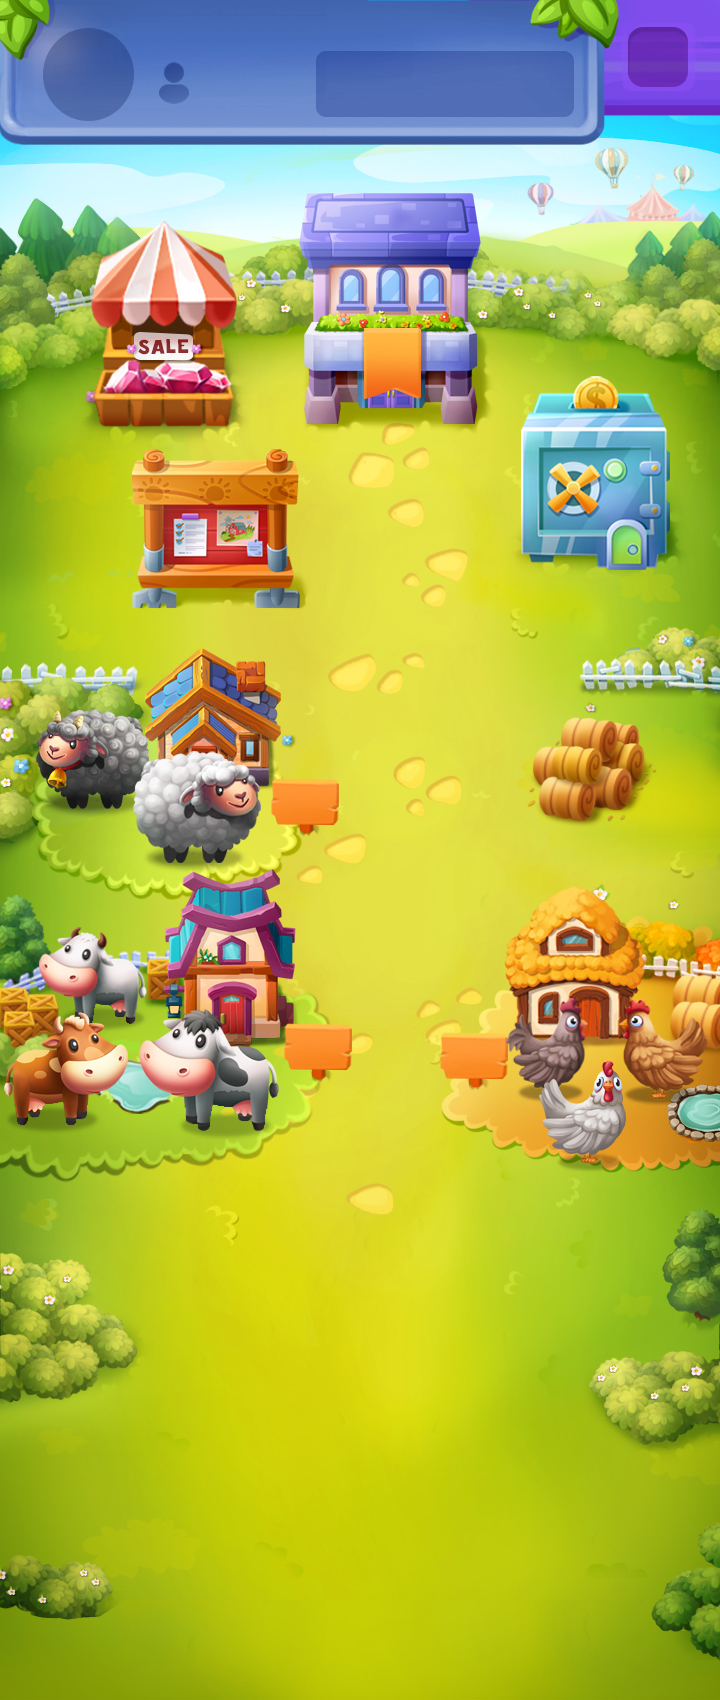
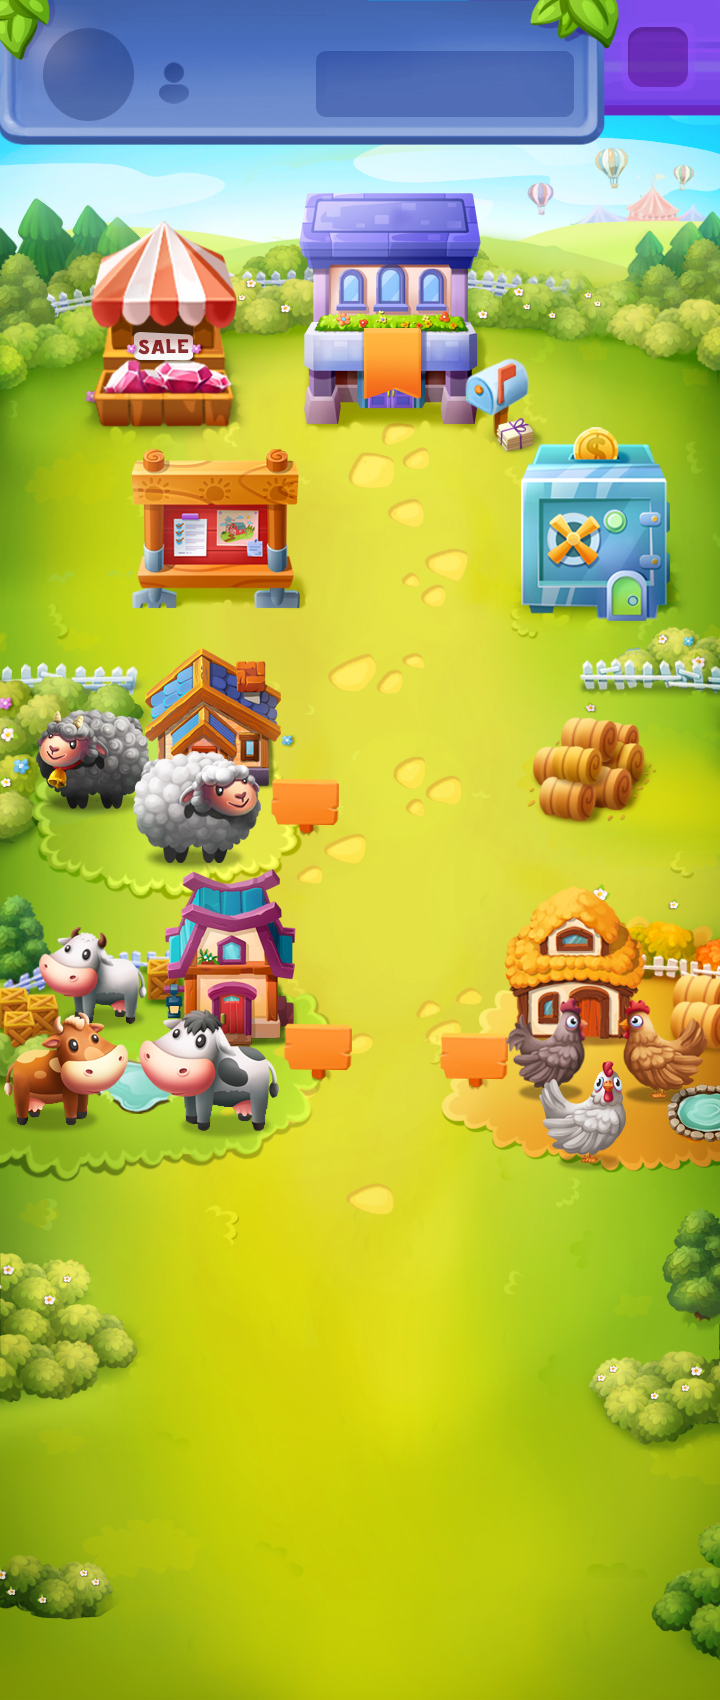
add clan chat messages notification

Changed region(s): [[0.6417, 0.1871, 0.9472, 0.3741]]

diff --git a/src/scripts/components/modal/chat/ChatBars.ts b/src/scripts/components/modal/chat/ChatBars.ts
@@ -27,6 +27,7 @@ export default class ChatBars {
   private name: Phaser.GameObjects.Text;
   private arrow: Phaser.GameObjects.Sprite;
   private personalTabNotificator: Notificator;
+  private clanTabNotificator: Notificator;
 
   constructor(scene: Modal) {
     this.scene = scene;
@@ -147,15 +148,20 @@ export default class ChatBars {
 
       switch (type) {
         case 1:
-          // this.tabChat = this.scene.add.nineslice(bgGeom.left + 10, bgGeom.top + 25, maxWidth / 3, activeTabHeight, 'chat-tab-active', slice) //!
           this.tabChat = this.scene.add.roundedField(bgGeom.left + 10 + maxWidth / 6, bgGeom.top + 25, maxWidth / 3, activeTabHeight, 'chat-tab-active').setDepth(2).setOriginY(1);
           this.tabChatText = this.scene.add.text(this.tabChat.getCenter().x, this.tabChat.getCenter().y, this.scene.state.lang.generalChat, tabActiveTextStyle).setDepth(2).setOrigin(0.5);
 
-          // this.tabClan = this.scene.add.nineslice(this.tabChat.getRightCenter().x - 3 , bgGeom.top + 25, maxWidth / 3, tabHeight, 'chat-tab', slice); //!
           this.tabClan = this.scene.add.roundedField(this.tabChat.getRightCenter().x - 3 + maxWidth / 6, bgGeom.top + 25, maxWidth / 3, tabHeight, 'chat-tab').setDepth(2).setOriginY(1);
           this.tabClanText = this.scene.add.text(this.tabClan.getCenter().x, this.tabClan.getCenter().y, this.scene.state.lang.clanChat, tabTextStyle).setDepth(4).setOrigin(0.5);
 
-          // this.tabPersonal = this.scene.add.nineslice(this.tabClan.getRightCenter().x - 3 , bgGeom.top + 25, maxWidth / 3, tabHeight, 'chat-tab', slice); //!
+          const clanNotificationPos: Iposition = {
+            x: this.tabClan.getRightCenter().x - 10,
+            y: this.tabClan.getTopCenter().y + 10,
+          };
+          this.clanTabNotificator = new Notificator(this.scene, clanNotificationPos);
+          this.clanTabNotificator.setDepth(4);
+          this.clanTabNotificator.setCount(this.scene.state.clanChatNotificationCount);
+          
           this.tabPersonal = this.scene.add.roundedField(this.tabClan.getRightCenter().x - 3 + maxWidth / 6, bgGeom.top + 25, maxWidth / 3, tabHeight, 'chat-tab').setDepth(2).setOriginY(1);
           this.tabPersonalText = this.scene.add.text(this.tabPersonal.getCenter().x, this.tabPersonal.getCenter().y, this.scene.state.lang.personalChat, tabTextStyle).setDepth(4).setOrigin(0.5);
           const notificationPos: Iposition = {
@@ -174,6 +180,14 @@ export default class ChatBars {
           // this.tabClan = this.scene.add.nineslice(this.tabChat.getRightCenter().x - 3 , bgGeom.top + 25, maxWidth / 3, tabHeight, 'chat-tab', slice); //!
           this.tabClan = this.scene.add.roundedField(this.tabChat.getRightCenter().x - 3 + maxWidth / 6, bgGeom.top + 25, maxWidth / 3, tabHeight, 'chat-tab').setDepth(2).setOriginY(1);
           this.tabClanText = this.scene.add.text(this.tabClan.getCenter().x, this.tabClan.getCenter().y, this.scene.state.lang.clanChat, tabTextStyle).setDepth(4).setOrigin(0.5);
+
+          const clanNotificationPos1: Iposition = {
+            x: this.tabClan.getRightCenter().x - 10,
+            y: this.tabClan.getTopCenter().y + 10,
+          };
+          this.clanTabNotificator = new Notificator(this.scene, clanNotificationPos1);
+          this.clanTabNotificator.setDepth(4);
+          this.clanTabNotificator.setCount(this.scene.state.clanChatNotificationCount);
 
           // this.tabPersonal = this.scene.add.nineslice(tabClanGeom.right - 3 , bgGeom.top + 25, maxWidth / 3, activeTabHeight, 'chat-tab-active', slice); //!
           this.tabPersonal = this.scene.add.roundedField(this.tabClan.getRightCenter().x - 3 + maxWidth / 6, bgGeom.top + 25, maxWidth / 3, activeTabHeight, 'chat-tab-active').setDepth(2).setOriginY(1);
@@ -242,6 +256,8 @@ export default class ChatBars {
       const count: number = this.getPersonalTabCountNotification();
       this.personalTabNotificator?.setCount(count);
     }
+
+    this.clanTabNotificator?.setCount(this.scene.state.clanChatNotificationCount);
   }
 
   private getPersonalTabCountNotification(): number {

diff --git a/src/scripts/scenes/ClanFarm.ts b/src/scripts/scenes/ClanFarm.ts
@@ -46,6 +46,7 @@ export default class ClanFarm extends Phaser.Scene {
   private currentIcon: IconfigIcon;
   private taskNotificator: Notificator;
   private shopNotificator: Notificator;
+  private chatNotificator: Notificator;
   private eventSprite: Phaser.GameObjects.Sprite;
   private eventGlowSprite: Phaser.GameObjects.Sprite;
   private eventGlowAli: Phaser.Tweens.Tween;
@@ -218,7 +219,27 @@ export default class ClanFarm extends Phaser.Scene {
     //   zone.input.hitArea.height
     //   );
 
-    this.click(zone, () => {
+    const mailZone: Phaser.GameObjects.Zone = this.add.zone(pos.x + 110, pos.y + 100, 80, 100).setDropZone(undefined, () => {});
+    // const graphics: Phaser.GameObjects.Graphics = this.add.graphics();
+    // graphics.lineStyle(5, 0xFAFFA0);
+    // graphics.strokeRect(
+    //   mailZone.x - mailZone.input.hitArea.width / 2, 
+    //   mailZone.y - mailZone.input.hitArea.height / 2, 
+    //   mailZone.input.hitArea.width, 
+    //   mailZone.input.hitArea.height
+    //   );
+
+    this.chatNotificator = new Notificator(this, { x: pos.x + 130, y: pos.y + 65 });
+
+    this.click(mailZone, (): void => {
+      this.state.modal = {
+        type: 9,
+        chatType: 3,
+      };
+      this.scene.launch('Modal', this.state);
+    });
+
+    this.click(zone, (): void => {
       this.state.modal = {
         type: 17,
         clanTabType: 1,
@@ -243,7 +264,7 @@ export default class ClanFarm extends Phaser.Scene {
   private createBank(): void {
     const pos: Iposition = {
       x: 595,
-      y: 480,
+      y: 530,
     };
     const zone = this.add.zone(pos.x, pos.y, 160, 200).setDropZone(undefined, () => {});
 
@@ -519,6 +540,7 @@ export default class ClanFarm extends Phaser.Scene {
       this.updateTaskNotification();
       this.updateEventState();
       this.updateEventText();
+      this.updateClanChatNotification();
     }
   }
 
@@ -716,6 +738,10 @@ export default class ClanFarm extends Phaser.Scene {
     this.taskNotificator.setCount(count);
   }
 
+  private updateClanChatNotification(): void {
+    this.chatNotificator.setCount(this.state.clanChatNotificationCount);
+  }
+  
   private updateEventText(): void {
     if (this.eventTime.visible) {
       const timeText: string = `${this.state.lang.lastTime} ${shortTime(this.state.progress.clanEvent.endTime, this.state.lang)}`;

diff --git a/src/scripts/state.ts b/src/scripts/state.ts
@@ -84,6 +84,7 @@ let musicVolume: number = 1;
 let soundVolume: number = 1;
 let clanEventTakenAward: boolean = true;
 let sales: Isale[] = [];
+let clanChatNotificationCount: number = 0;
 
 let state: Istate = {
   // записываемые в localStorage
@@ -122,6 +123,7 @@ let state: Istate = {
   dailyAwards, // награды новичка
 
   // не записываемые в localStorage
+  clanChatNotificationCount,
   shopNotificationCount: notificationCounter, // счетчик нативов в магазине ['diamonds', 'gold', 'animals', 'booster']
   lang, // массив слов выбранного языка
   modal, // настройки окон

diff --git a/src/scripts/components/modal/chat/ClanChat.ts b/src/scripts/components/modal/chat/ClanChat.ts
@@ -19,6 +19,7 @@ export default class ClanChat {
   }
 
   private init(): void {
+    this.scene.state.clanChatNotificationCount = 0;
     this.scene.scrollHeight = Number(this.scene.game.config.height) - 1200 + 562;
     this.scene.scrolling.bottom = 0;
     this.scene.scrolling.scrollY = 0;
@@ -58,6 +59,7 @@ export default class ClanChat {
         this.newMsg(this.scene.state.clan.chatMessages[i]);
       }
     }
+    this.scene.state.clanChatNotificationCount = 0;
   }
 
   private newMsg(msgData: Ichat) {

diff --git a/src/scripts/Socket.ts b/src/scripts/Socket.ts
@@ -68,6 +68,7 @@ export default class Socket {
       if (this.state.clan) {
         if (data.id === this.state.clan.id) {
           this.state.clan.chatMessages.push(data);
+          this.state.clanChatNotificationCount += 1;
         }
       }
     });

diff --git a/src/scripts/components/gameObjects/BarsMenu.ts b/src/scripts/components/gameObjects/BarsMenu.ts
@@ -252,6 +252,7 @@ export default class BarsMenu extends Phaser.GameObjects.Sprite {
         count += 1;
       }
     }
+    count += this.scene.state.clanChatNotificationCount;
     return count;
   }
 }

diff --git a/src/scripts/interfaces.ts b/src/scripts/interfaces.ts
@@ -972,4 +972,5 @@ interface Istate {
   clanEventTakenAward: boolean;
   sales: Isale[];
   offline?: number;
+  clanChatNotificationCount: number;
 }
